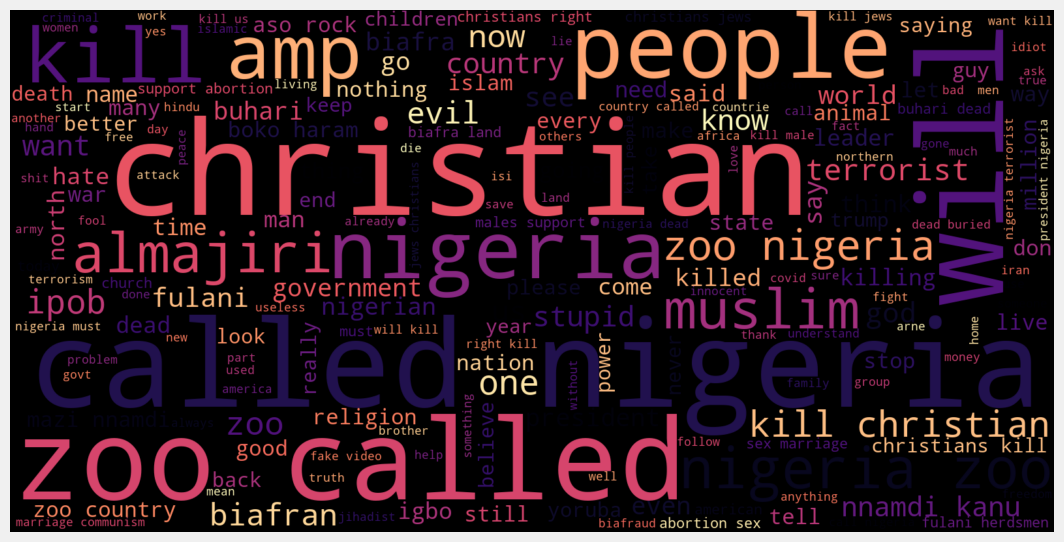
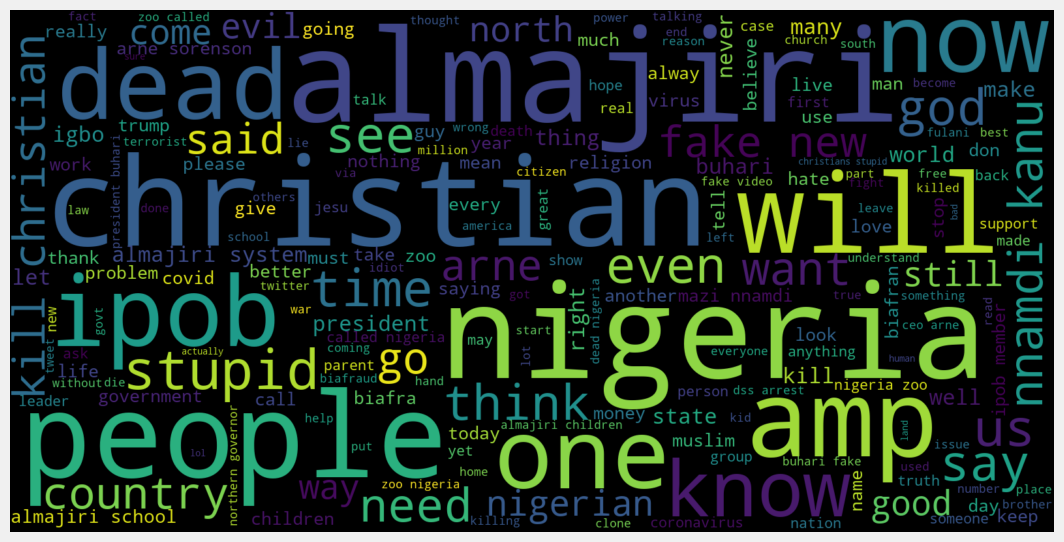
Correct polarity (and color map) in word cloud generation

diff --git a/pre_training.py b/pre_training.py
@@ -119,16 +119,16 @@ def create_class_dist(train):
 
 
 def create_wordcloud_neg(train):
-    neg_tweets = train[train.Polarity == 0]
+    neg_tweets = train[train.Polarity == 1]
     neg_string = []
 
     for t in neg_tweets.Tweet:
         neg_string.append(t)
 
     neg_string = pd.Series(neg_string).str.cat(sep=" ")
-    wordcloud = WordCloud(width=1600, height=800, max_font_size=200).generate(
-        neg_string
-    )
+    wordcloud = WordCloud(
+        width=1600, height=800, max_font_size=200, colormap="magma"
+    ).generate(neg_string)
     # generate figure
     plt.figure(figsize=(12, 10))
     plt.imshow(wordcloud, interpolation="bilinear")
@@ -138,16 +138,16 @@ def create_wordcloud_neg(train):
 
 
 def create_wordcloud_pos(train):
-    pos_tweets = train[train.Polarity == 1]
+    pos_tweets = train[train.Polarity == 0]
     pos_string = []
 
     for t in pos_tweets.Tweet:
         pos_string.append(t)
 
     pos_string = pd.Series(pos_string).str.cat(sep=" ")
-    wordcloud = WordCloud(
-        width=1600, height=800, max_font_size=200, colormap="magma"
-    ).generate(pos_string)
+    wordcloud = WordCloud(width=1600, height=800, max_font_size=200).generate(
+        pos_string
+    )
     # generate figure
     plt.figure(figsize=(12, 10))
     plt.imshow(wordcloud, interpolation="bilinear")
